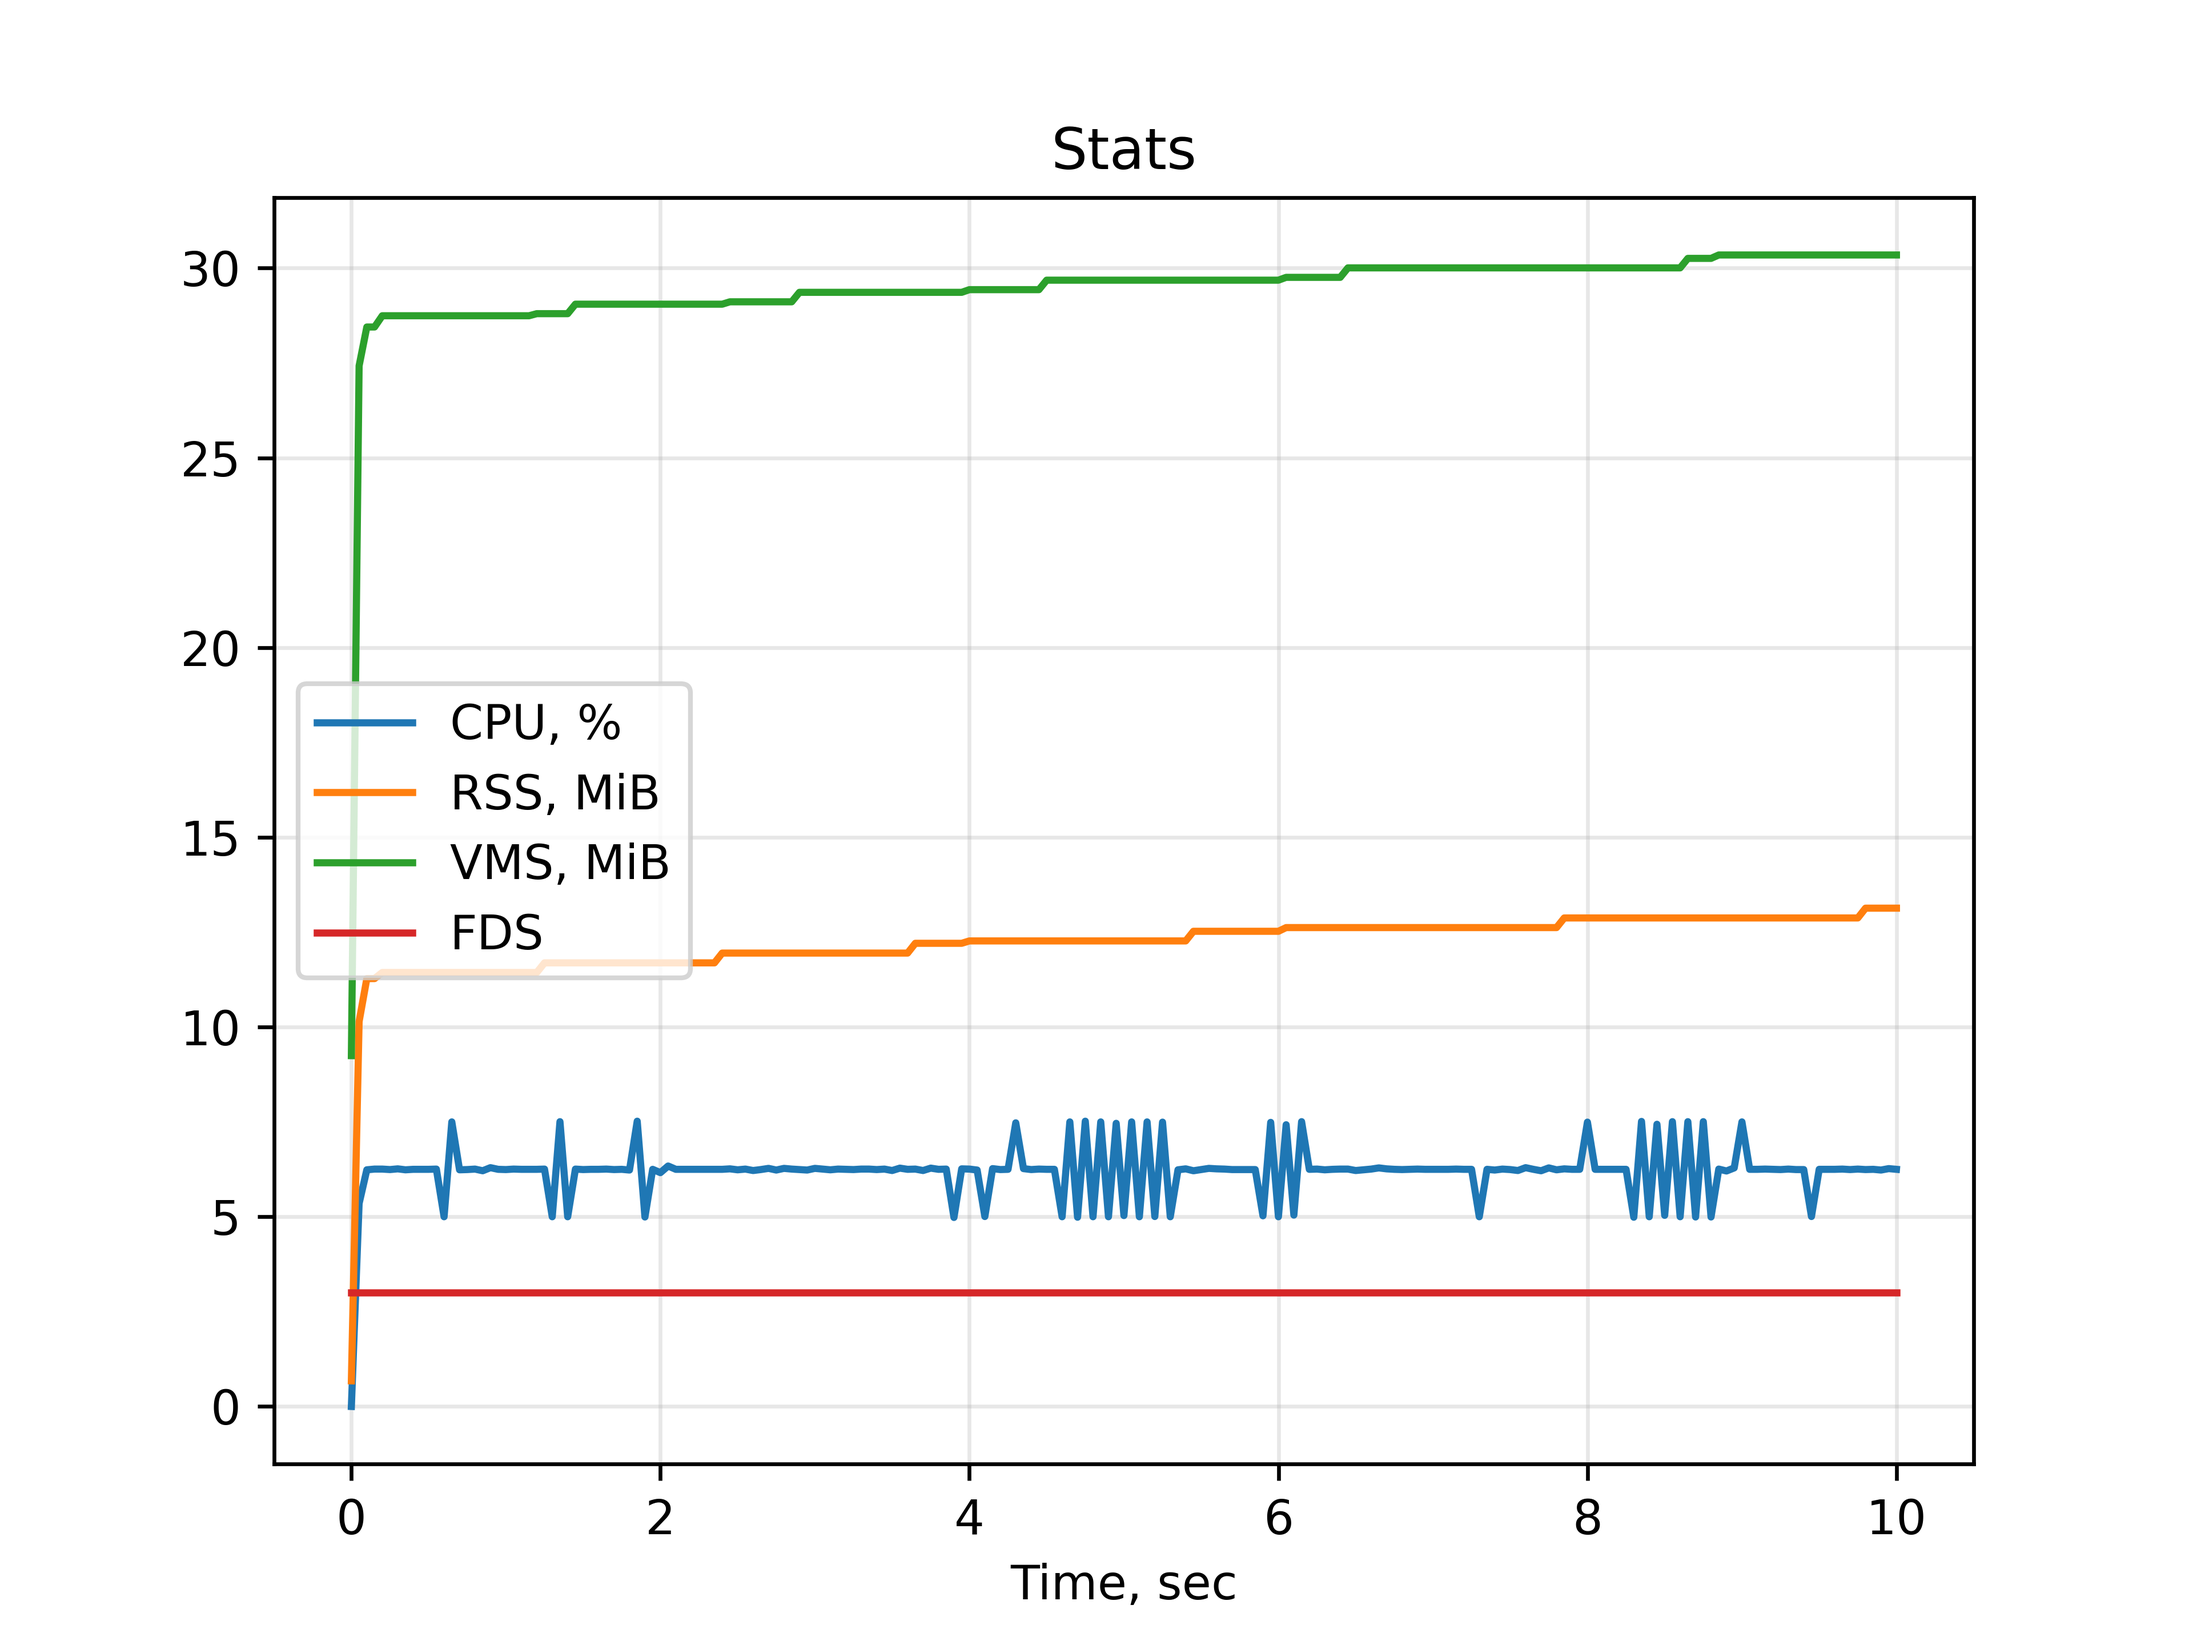
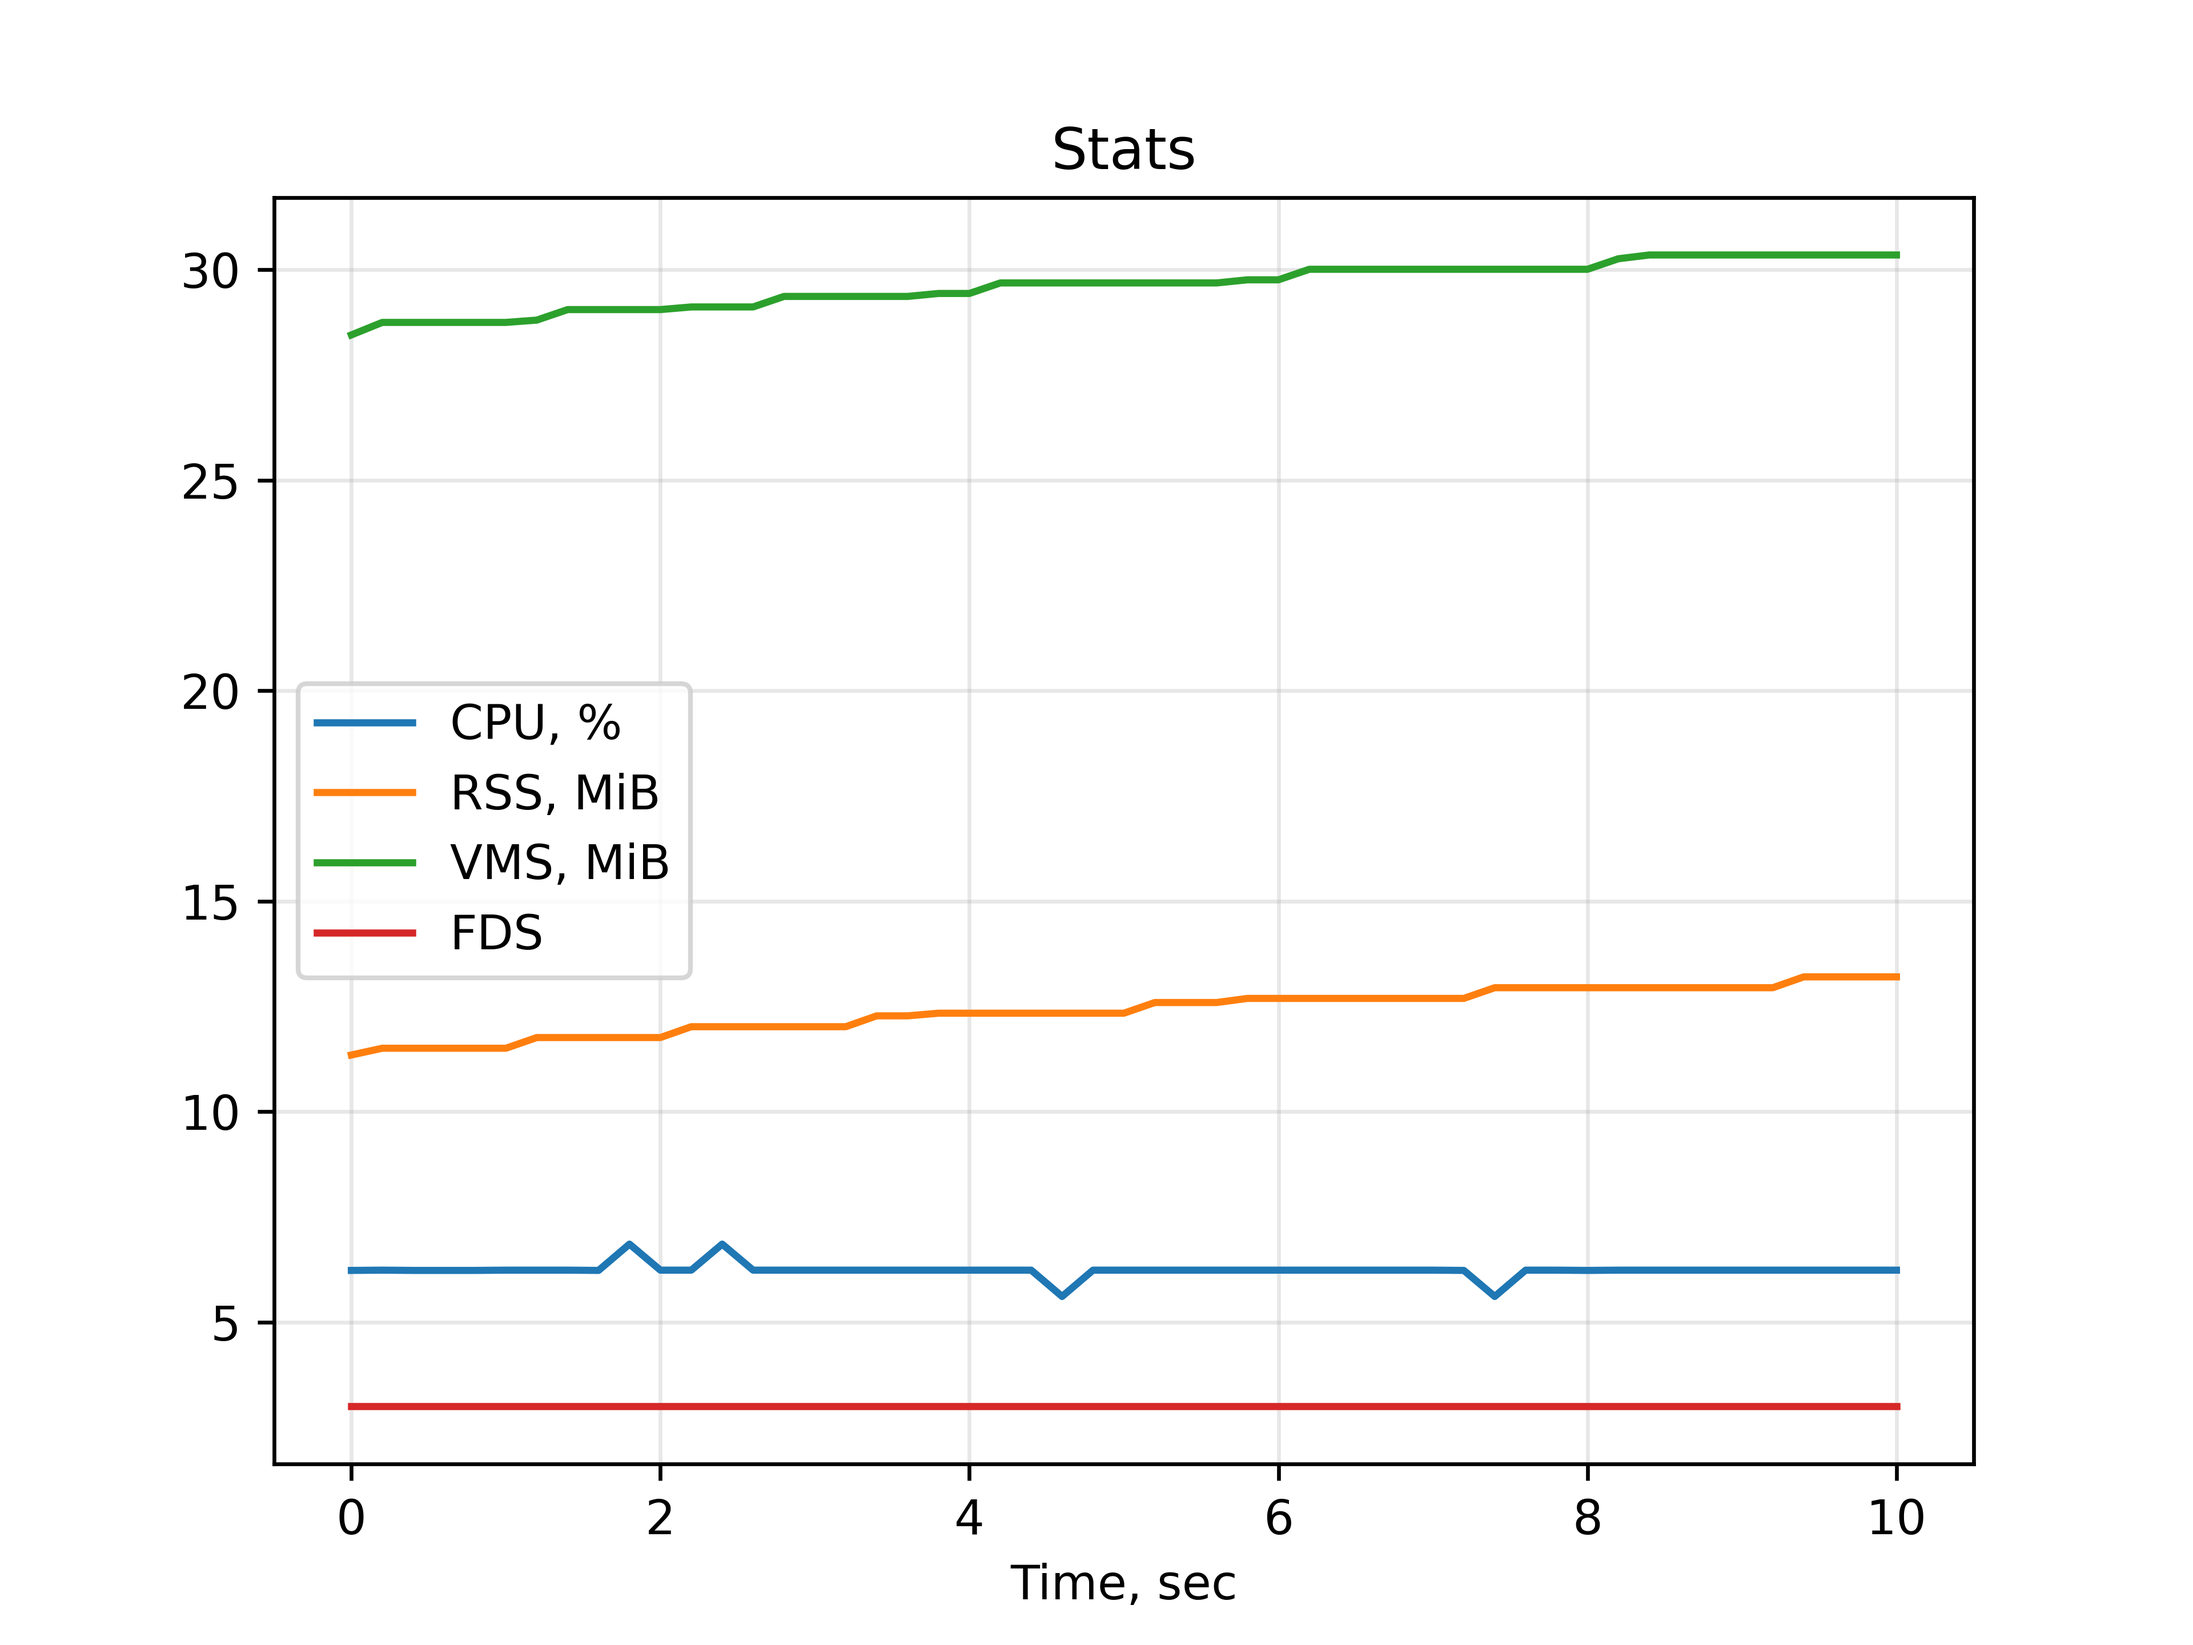
Some fix

diff --git a/Veeam/main.py b/Veeam/main.py
@@ -26,7 +26,6 @@ def plot_stats():
 def run_process(path_file, interval, time_limit=None):
     stats = {'timestamp': [], 'cpu': [], 'rss': [], 'vms': [], 'fds': []}
     interval_limit = 3  # При interval > interval_limit каждые interval_limit секунд будет проверяться is_running()
-    # interval = float(interval)
 
     start_time = time.time()
     process = subprocess.Popen(['python3', path_file], close_fds=True)
@@ -43,7 +42,7 @@ def run_process(path_file, interval, time_limit=None):
         stats['timestamp'].append(tmp_time)
 
         # Загрузка CPU в процентах
-        stats['cpu'].append(p.cpu_percent() / psutil.cpu_count())
+        stats['cpu'].append(p.cpu_percent(0.1) / psutil.cpu_count())
 
         # Потребление памяти в MiB: Resident Set Size и Virtual Memory Size
         stats['rss'].append(p.memory_info().rss / 1024 / 1024)
@@ -55,9 +54,10 @@ def run_process(path_file, interval, time_limit=None):
                 stats['fds'].append(p.num_fds())
             else:
                 stats['fds'].append(p.num_handles())
-        except psutil.Error as error:
-            stats['fds'].append(-1)
-            print(error)
+        except psutil.Error:
+            for key, value in stats.items():
+                if key != 'fds':
+                    value.pop()
 
         if interval <= interval_limit:
             time.sleep(interval - ((time.time() - start_time) % interval))
@@ -85,8 +85,8 @@ if __name__ == "__main__":
                            help='Maximum execution time of transferred file in seconds')
     args = argParser.parse_args()
 
-    if args.path is None or args.interval is None:
-        argParser.print_help()
+    if args.interval <= 0:
+        print('Interval must be positive!')
         sys.exit()
 
     run_process(args.path, args.interval, args.time_limit)
